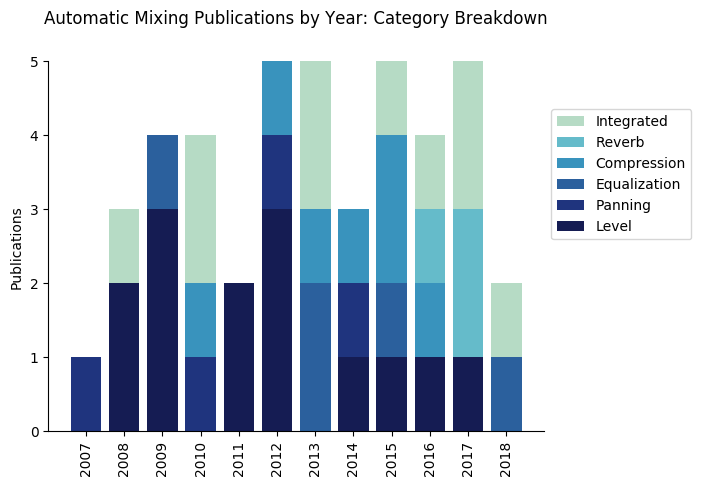
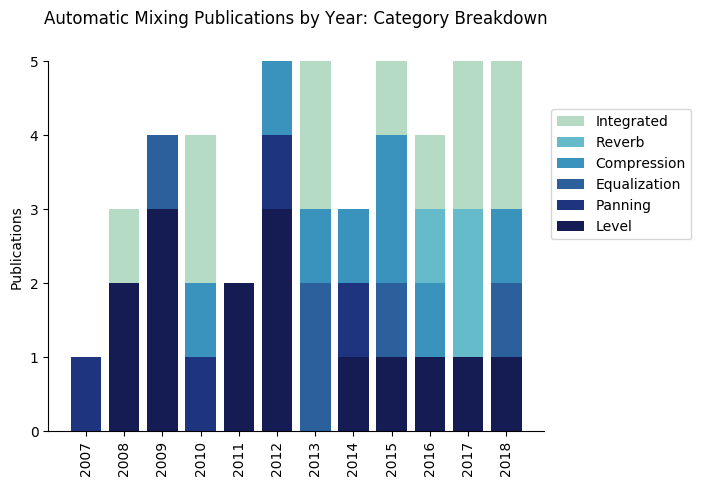
update of mixing papersr

Changed region(s): [[0.689, 0.1235, 0.7489, 0.8951]]

diff --git a/README.md b/README.md
@@ -23,9 +23,21 @@ A number of different approaches have been employed to address the research prob
 ### Resources
 If related code or additional resources are available for the publication a link is provided. 
 
+## Compression
+|Year|Title|Authors|Approach|Resources|
+|---|---|---|---|---|
+|2018|[Adaptive Ballistics Control of Dynamic Range Compression for Percussive Tracks](http://davemoffat.com/wp/wp-content/uploads/2018/11/19748.pdf)|D. Moffat and M. B. Sandler|KE|[Yes](https://github.com/djmoffat/intelligentCompressor)|
+|2016|[Deep neural networks for dynamic range compression in mastering applications](http://www.aes.org/e-lib/browse.cfm?elib=18237)|S. I. Mimilakis et al.|ML|No|
+|2015|[Adaptive audio reproduction using personalized compression](https://www.eecs.qmul.ac.uk/~josh/documents/2015/Mason%20et%20al%20-%20AES57%20-%202015.pdf)|A. Mason et al.|GT|No|
+|2015|[Intelligent multitrack dynamic range compression](http://www.aes.org/e-lib/browse.cfm?elib=17821)|Z. Ma et al.|KE|No|
+|2014|[A statistical approach to automated offline dynamic processing in the audio mastering process](http://www.dafx14.fau.de/papers/dafx14_marcel_hilsamer_a_statistical_approach_to.pdf)|M. Hilsamer and S. Herzog|GT|No|
+|2013|[Parameter automation in a dynamic range compressor](http://www.aes.org/e-lib/browse.cfm?elib=16965)|D. Giannoulis, M. Massberg, and J. D. Reiss|KE|No|
+|2012|[An autonomous method for multi-track dynamic range compression](https://www.dafx12.york.ac.uk/papers/dafx12_submission_6.pdf)|J. A. Maddams, S. Finn, and J. D. Reiss|GT|No|
+|2010|[Automatic noise gate settings for drum recordings containing bleed from secondary sources](https://dl.acm.org/citation.cfm?id=1972713)|M. J. Terrell, J. D. Reiss|KE|No|
 ## Level
 |Year|Title|Authors|Approach|Resources|
 |---|---|---|---|---|
+|2018|[Automatic Mixing of Multitrack Material Using Modified Loudness Models](http://www.aes.org/e-lib/browse.cfm?conv=145&papernum=10041)|S. Fenton|KE|No|
 |2017|[Automatic masking reduction in balance mixes using evolutionary computing](http://www.aes.org/e-lib/browse.cfm?elib=19210)|N. Jillings, R. Stables|ML|No|
 |2016|[An evolutionary computation approach to intelligent music production, informed by experimentally gathered domain knowledge](http://usir.salford.ac.uk/44278/1/Wilson.pdf)|A. Wilson and B. Fazenda|ML|No|
 |2015|[Comparison of loudness features for automatic level adjustment in mixing](http://www.aes.org/e-lib/browse.cfm?elib=17928)|G. Wichern et al.|GT|No|
@@ -40,13 +52,6 @@ If related code or additional resources are available for the publication a link
 |2009|[Automatic monitor mixing for live musical performance](http://www.aes.org/e-lib/browse.cfm?elib=15229)|M. J. Terrell and J. D. Reiss|GT|No|
 |2008|[An automatic maximum gain normalization technique with applications to audio mixing](http://www.aes.org/e-lib/browse.cfm?elib=14541)|E. Perez Gonzalez and J. D. Reiss|GT|No|
 |2008|[A framework for automatic mixing using timbral similarity measures and genetic optimization](http://www.aes.org/e-lib/browse.cfm?elib=14626)|B. Kolasinski|ML|[Yes](http://www.nyu.edu/projects/mtr/)|
-## Panning
-|Year|Title|Authors|Approach|Resources|
-|---|---|---|---|---|
-|2014|[A cross-adaptive dynamic spectral panning technique](http://www.dafx14.fau.de/papers/dafx14_pedro_d._pestana_a_cross_adaptive_dynamic_.pdf)|P. D. Pestana and J. D. Reiss|GT|No|
-|2012|[An autonomous system for multitrack stereo pan positioning](http://www.eecs.qmul.ac.uk/~josh/documents/MansbridgeFinnReiss-AES133-Autonomoussystemformultitrackstereopositioning.pdf)|S. Mansbridge, S. Finn, and J. D. Reiss|KE|No|
-|2010|[A real-time semiautonomous audio panning system for music mixing](https://asp-eurasipjournals.springeropen.com/articles/10.1155/2010/436895)|E. Perez Gonzalez and J. D. Reiss|GT|No|
-|2007|[Automatic mixing: live downmixing stereo panner](http://dafx.labri.fr/main/papers/p063.pdf)|E. Perez Gonzalez and J. D. Reiss|GT|No|
 ## Equalization
 |Year|Title|Authors|Approach|Resources|
 |---|---|---|---|---|
@@ -55,16 +60,13 @@ If related code or additional resources are available for the publication a link
 |2013|[Automated tonal balance enhancement for audio mastering applications](http://www.aes.org/e-lib/browse.cfm?elib=16737)|S. I. Mimilakis et al|GT|No|
 |2013|[Implementation of an intelligent equalization tool using Yule-Walker for music mixing and mastering](http://www.eecs.qmul.ac.uk/~josh/documents/Ma%20Reiss-%20Implementation%20of%20an%20Intelligent%20Equalization%20Tool%20Using%20Yule-Walker%20for%20Music%20Mixing%20and%20Mastering.pdf)|Z. Ma, J. D. Reiss, and D. A. A. Black|KE|No|
 |2009|[Automatic equalization of multichannel audio using cross-adaptive methods](http://www.aes.org/e-lib/browse.cfm?elib=15026)|E. Perez Gonzalez and J. D. Reiss|GT|No|
-## Compression
+## Panning
 |Year|Title|Authors|Approach|Resources|
 |---|---|---|---|---|
-|2016|[Deep neural networks for dynamic range compression in mastering applications](http://www.aes.org/e-lib/browse.cfm?elib=18237)|S. I. Mimilakis et al.|ML|No|
-|2015|[Adaptive audio reproduction using personalized compression](https://www.eecs.qmul.ac.uk/~josh/documents/2015/Mason%20et%20al%20-%20AES57%20-%202015.pdf)|A. Mason et al.|GT|No|
-|2015|[Intelligent multitrack dynamic range compression](http://www.aes.org/e-lib/browse.cfm?elib=17821)|Z. Ma et al.|KE|No|
-|2014|[A statistical approach to automated offline dynamic processing in the audio mastering process](http://www.dafx14.fau.de/papers/dafx14_marcel_hilsamer_a_statistical_approach_to.pdf)|M. Hilsamer and S. Herzog|GT|No|
-|2013|[Parameter automation in a dynamic range compressor](http://www.aes.org/e-lib/browse.cfm?elib=16965)|D. Giannoulis, M. Massberg, and J. D. Reiss|KE|No|
-|2012|[An autonomous method for multi-track dynamic range compression](https://www.dafx12.york.ac.uk/papers/dafx12_submission_6.pdf)|J. A. Maddams, S. Finn, and J. D. Reiss|GT|No|
-|2010|[Automatic noise gate settings for drum recordings containing bleed from secondary sources](https://dl.acm.org/citation.cfm?id=1972713)|M. J. Terrell, J. D. Reiss|KE|No|
+|2014|[A cross-adaptive dynamic spectral panning technique](http://www.dafx14.fau.de/papers/dafx14_pedro_d._pestana_a_cross_adaptive_dynamic_.pdf)|P. D. Pestana and J. D. Reiss|GT|No|
+|2012|[An autonomous system for multitrack stereo pan positioning](http://www.eecs.qmul.ac.uk/~josh/documents/MansbridgeFinnReiss-AES133-Autonomoussystemformultitrackstereopositioning.pdf)|S. Mansbridge, S. Finn, and J. D. Reiss|KE|No|
+|2010|[A real-time semiautonomous audio panning system for music mixing](https://asp-eurasipjournals.springeropen.com/articles/10.1155/2010/436895)|E. Perez Gonzalez and J. D. Reiss|GT|No|
+|2007|[Automatic mixing: live downmixing stereo panner](http://dafx.labri.fr/main/papers/p063.pdf)|E. Perez Gonzalez and J. D. Reiss|GT|No|
 ## Reverb
 |Year|Title|Authors|Approach|Resources|
 |---|---|---|---|---|
@@ -74,6 +76,7 @@ If related code or additional resources are available for the publication a link
 ## Integrated
 |Year|Title|Authors|Approach|Resources|
 |---|---|---|---|---|
+|2018|[Towards a Semantic Web Representation and Application of Audio Mixing Rules](https://research.hud.ac.uk/media/assets/document/research/3-MoffatThalmannSandlerWIMP2018.pdf)|D. Moffat, F. Thalmann and M. B. Sandler|KE|No|
 |2018|[Automatic minimisation of masking in multitrack audio using subgroups](https://arxiv.org/abs/1803.09960)|D. Ronan, Z. Ma, P. Mc Namara, H. Gunes, and J. D. Reiss|GT|[Yes](https://code.soundsoftware.ac.uk/projects/automatic-minimisation-of-masking-in-multitrack-audio-using-subgroups)|
 |2017|[Towards an automated multitrack mixing tool using answer set programming](http://smc2017.aalto.fi/media/materials/proceedings/SMC17_p422.pdf)|F. Everardo|KE|No|
 |2017|[Analysis and prediction of the audio feature space when mixing raw recordings into individual stems](http://www.aes.org/e-lib/browse.cfm?elib=19245)|M. A. Martínez Ramírez and J. D. Reiss|ML|[Yes](https://github.com/mchijmma/audioFeatures-stemMixing)|
